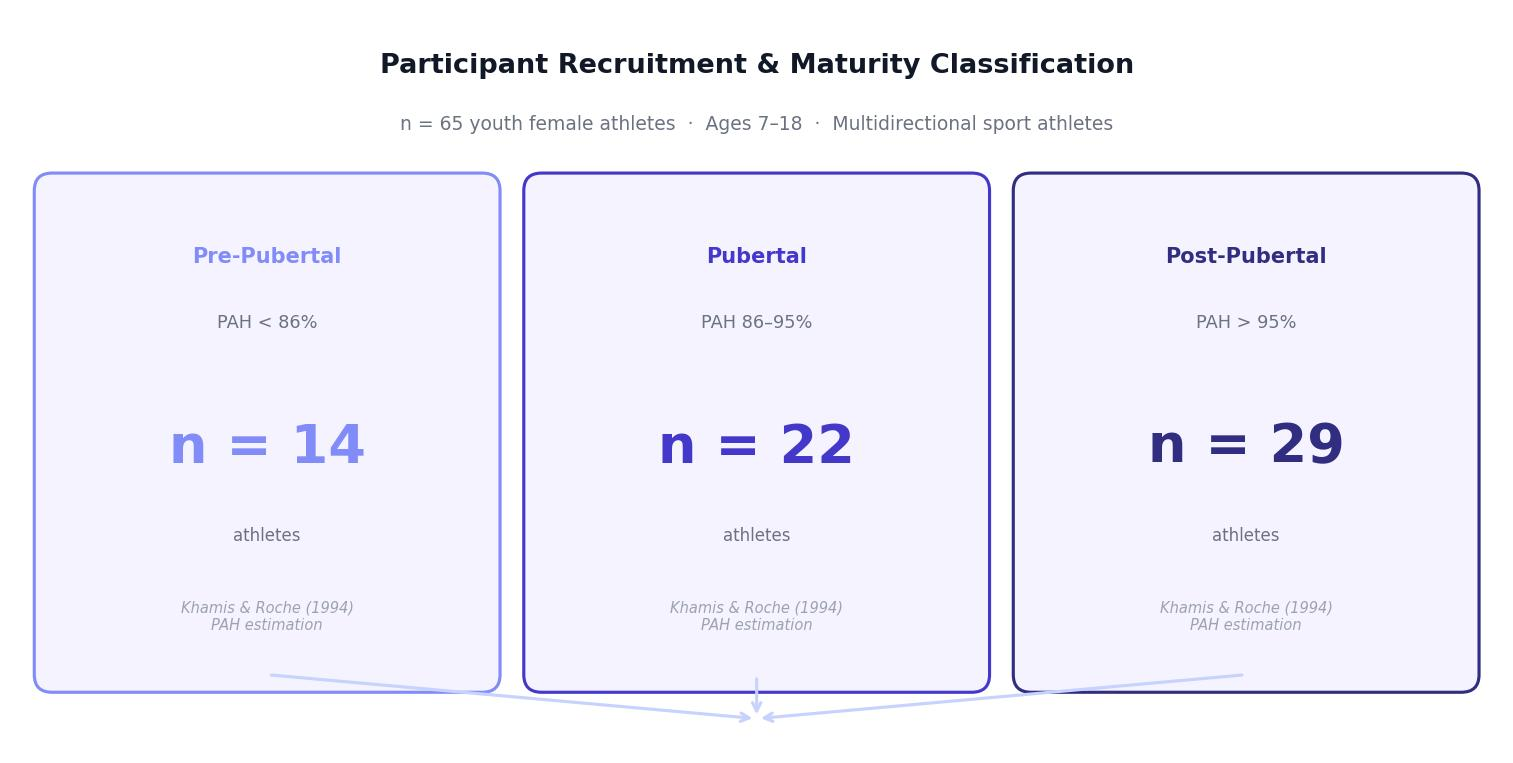
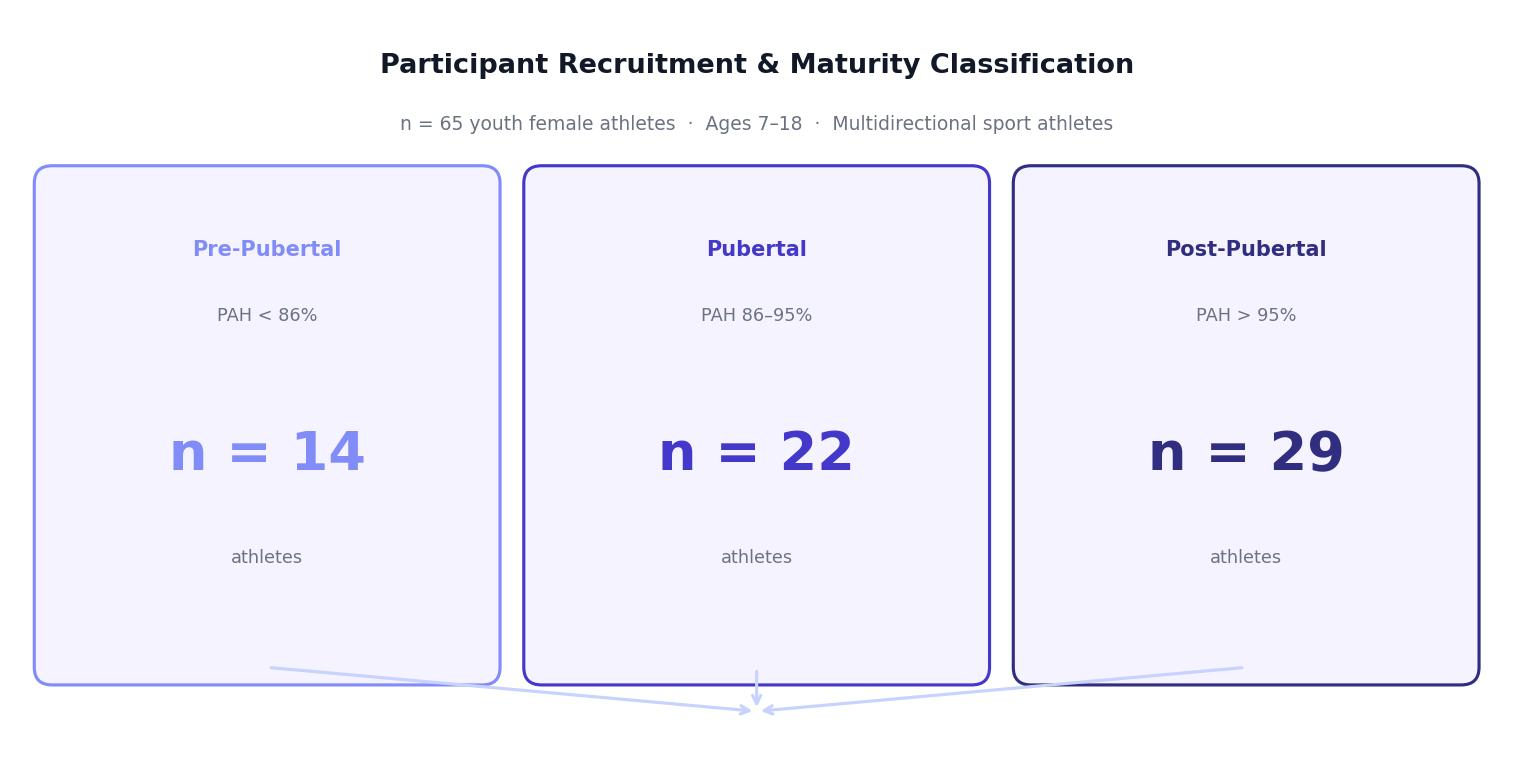
Update acl.html figures: remove Khamis Roche ref from Fig 1, use real SPM for Fig 3

diff --git a/acl.html b/acl.html
@@ -467,9 +467,9 @@
             <div class="field-text">Discrete measures reduce a dynamic movement to a single time point, typically peak angle or moment. This approach misses rapid biomechanical transitions in the early landing phase and cannot show when during the movement differences between groups emerge or resolve. SPM preserves the full temporal structure of the data, treating the waveform as a continuous signal and identifying specific windows of the landing phase where maturity-related or limb-related differences are statistically significant. The combination of both approaches provided a more complete understanding than either method alone.</div>
           </div>
 
-          <div class="stage-img contain">
-            <img src="acl_spm.jpg" alt="SPM waveform analysis output" />
-            <div class="img-caption">Fig 3. SPM1D waveform analysis: maturity group knee flexion angle profiles across the normalised landing phase (left) with mean and SD bands. SPM F-statistic output (right) identifying regions where between-group differences exceed the critical threshold (p=0.05), with significant windows highlighted in red.</div>
+          <div class="stage-img contain" style="max-height:none;">
+            <img src="acl_spm.jpg" alt="SPM waveform analysis output" style="max-height:520px;" />
+            <div class="img-caption">Fig 3. SPM1D waveform analysis of vertical ground reaction force (vGRF) across the normalised landing phase. Top panel shows the overall SPM F-statistic with critical threshold. Lower panels show post-hoc pairwise comparisons between maturity groups (Group 1: pre-pubertal, Group 2: pubertal, Group 3: post-pubertal) with mean waveforms and 95% confidence bands.</div>
           </div>
         </div>
       </div>
